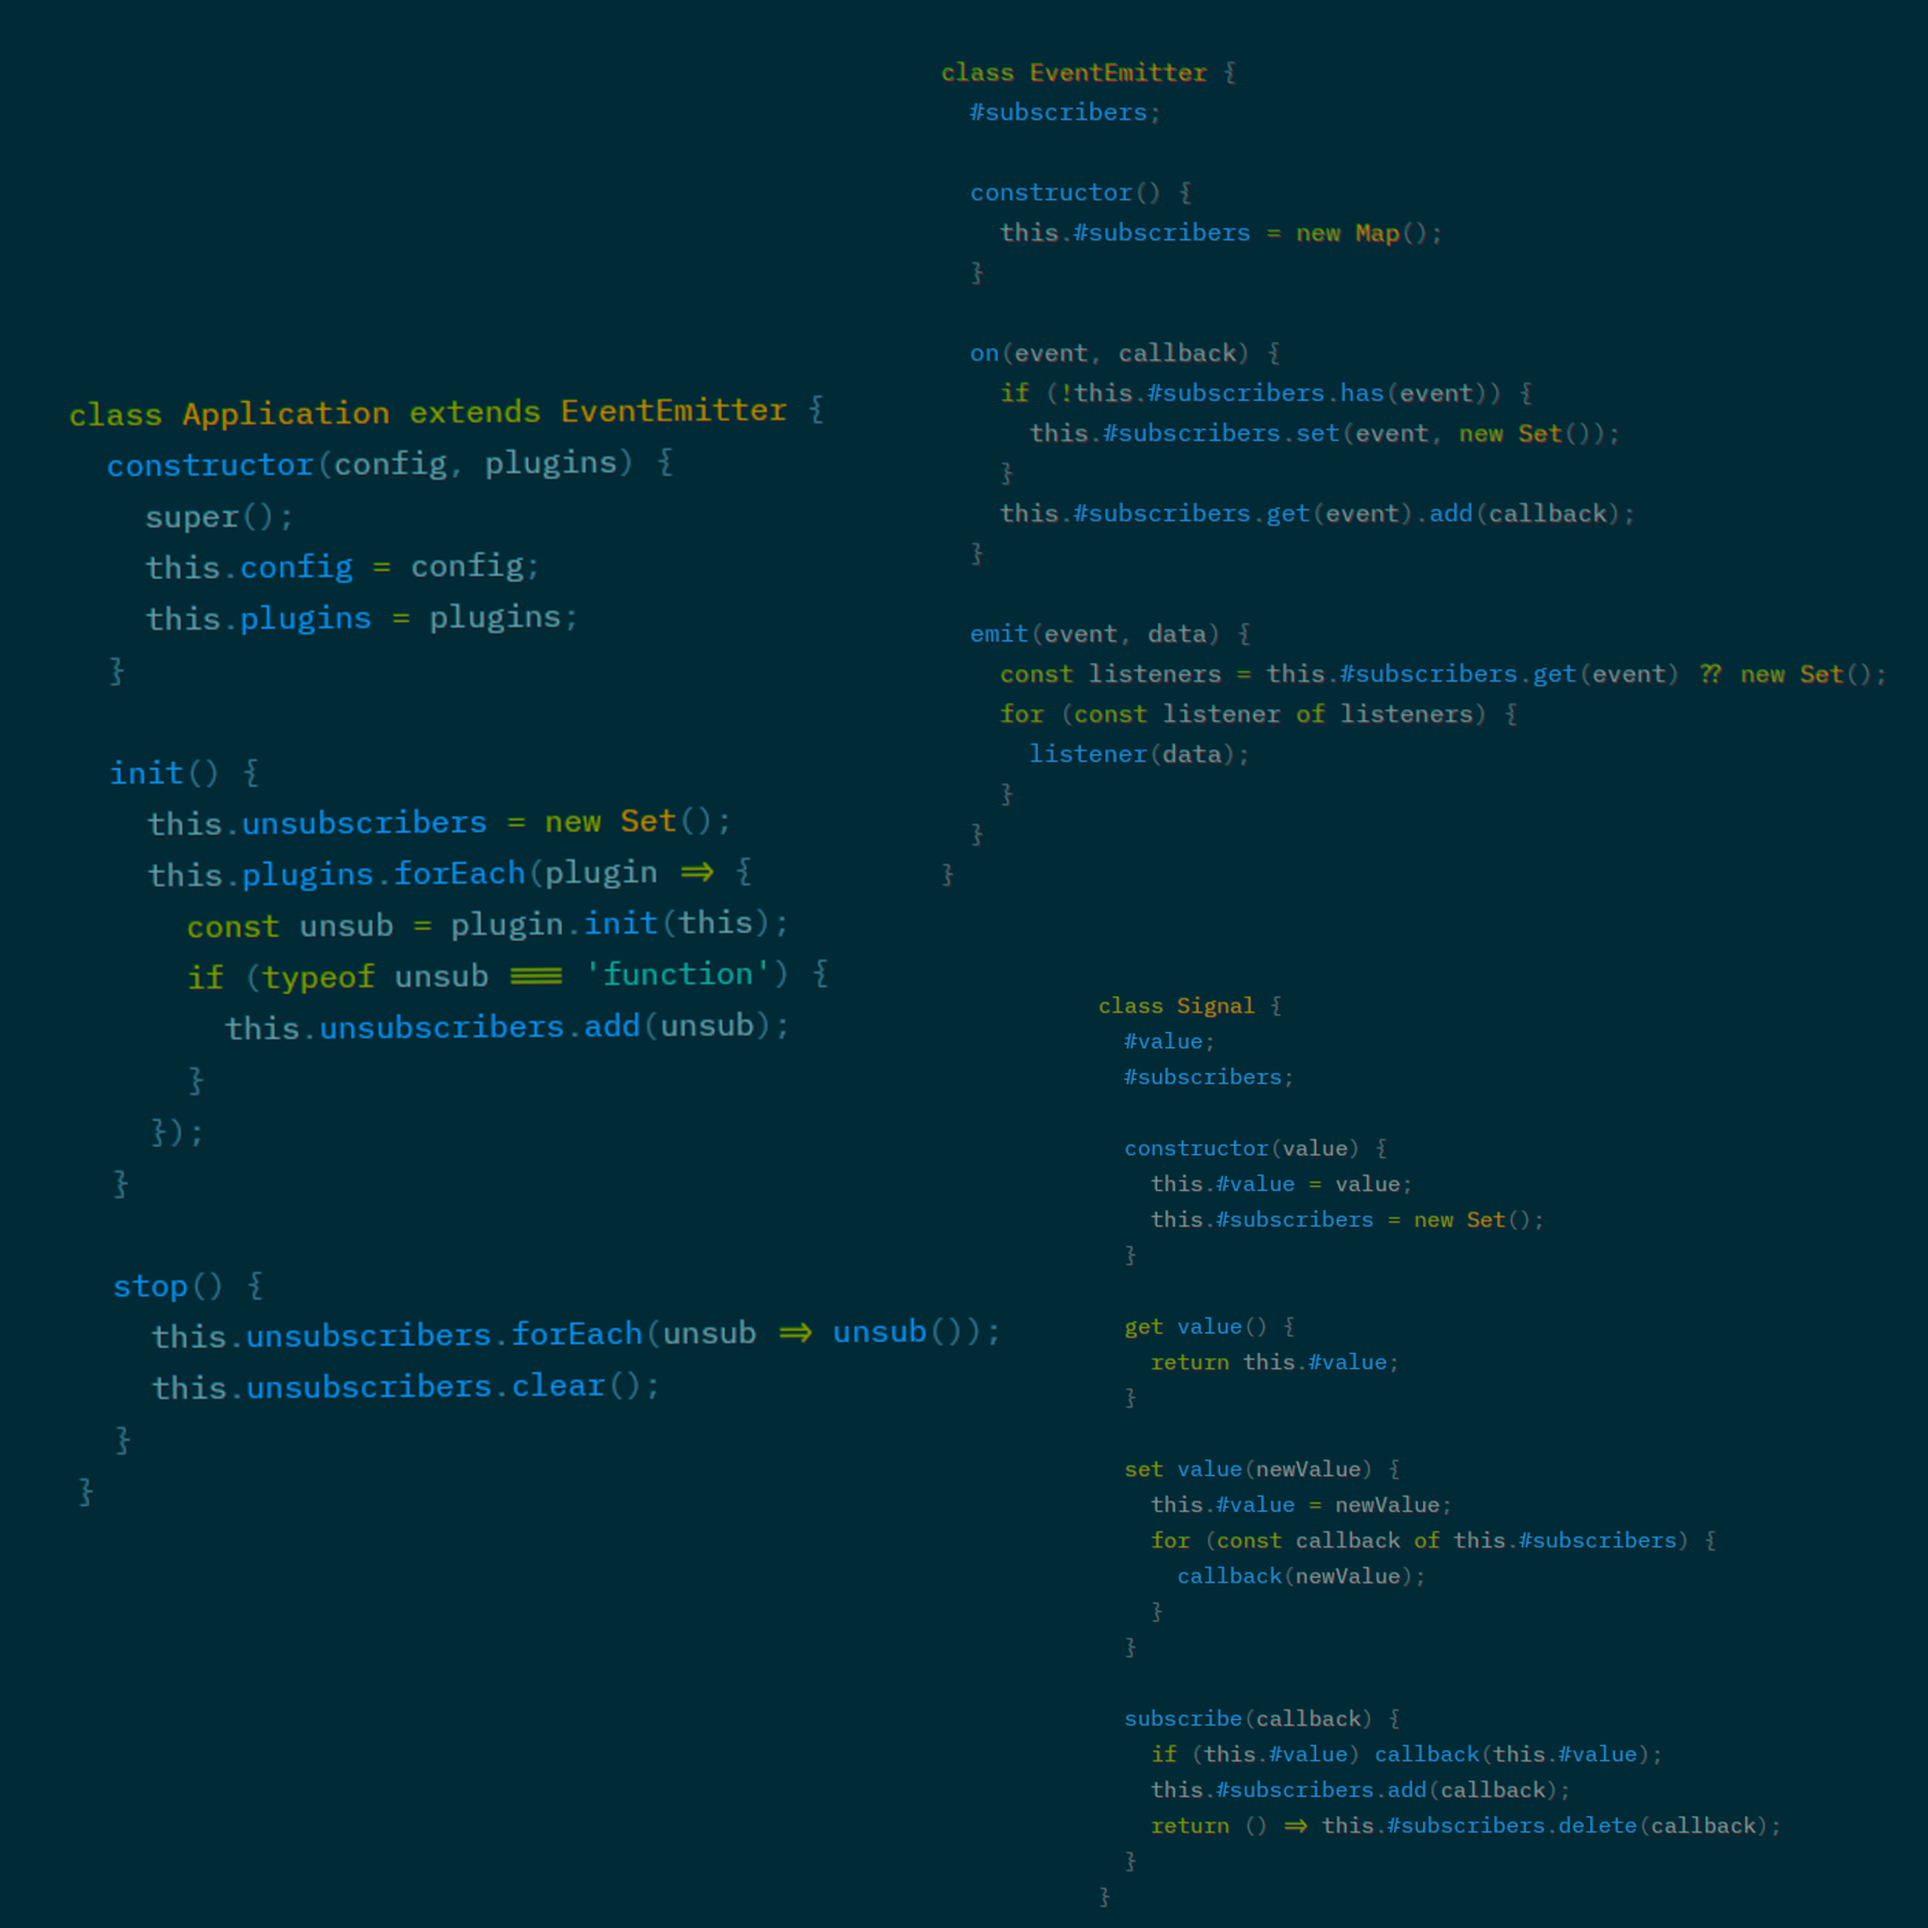
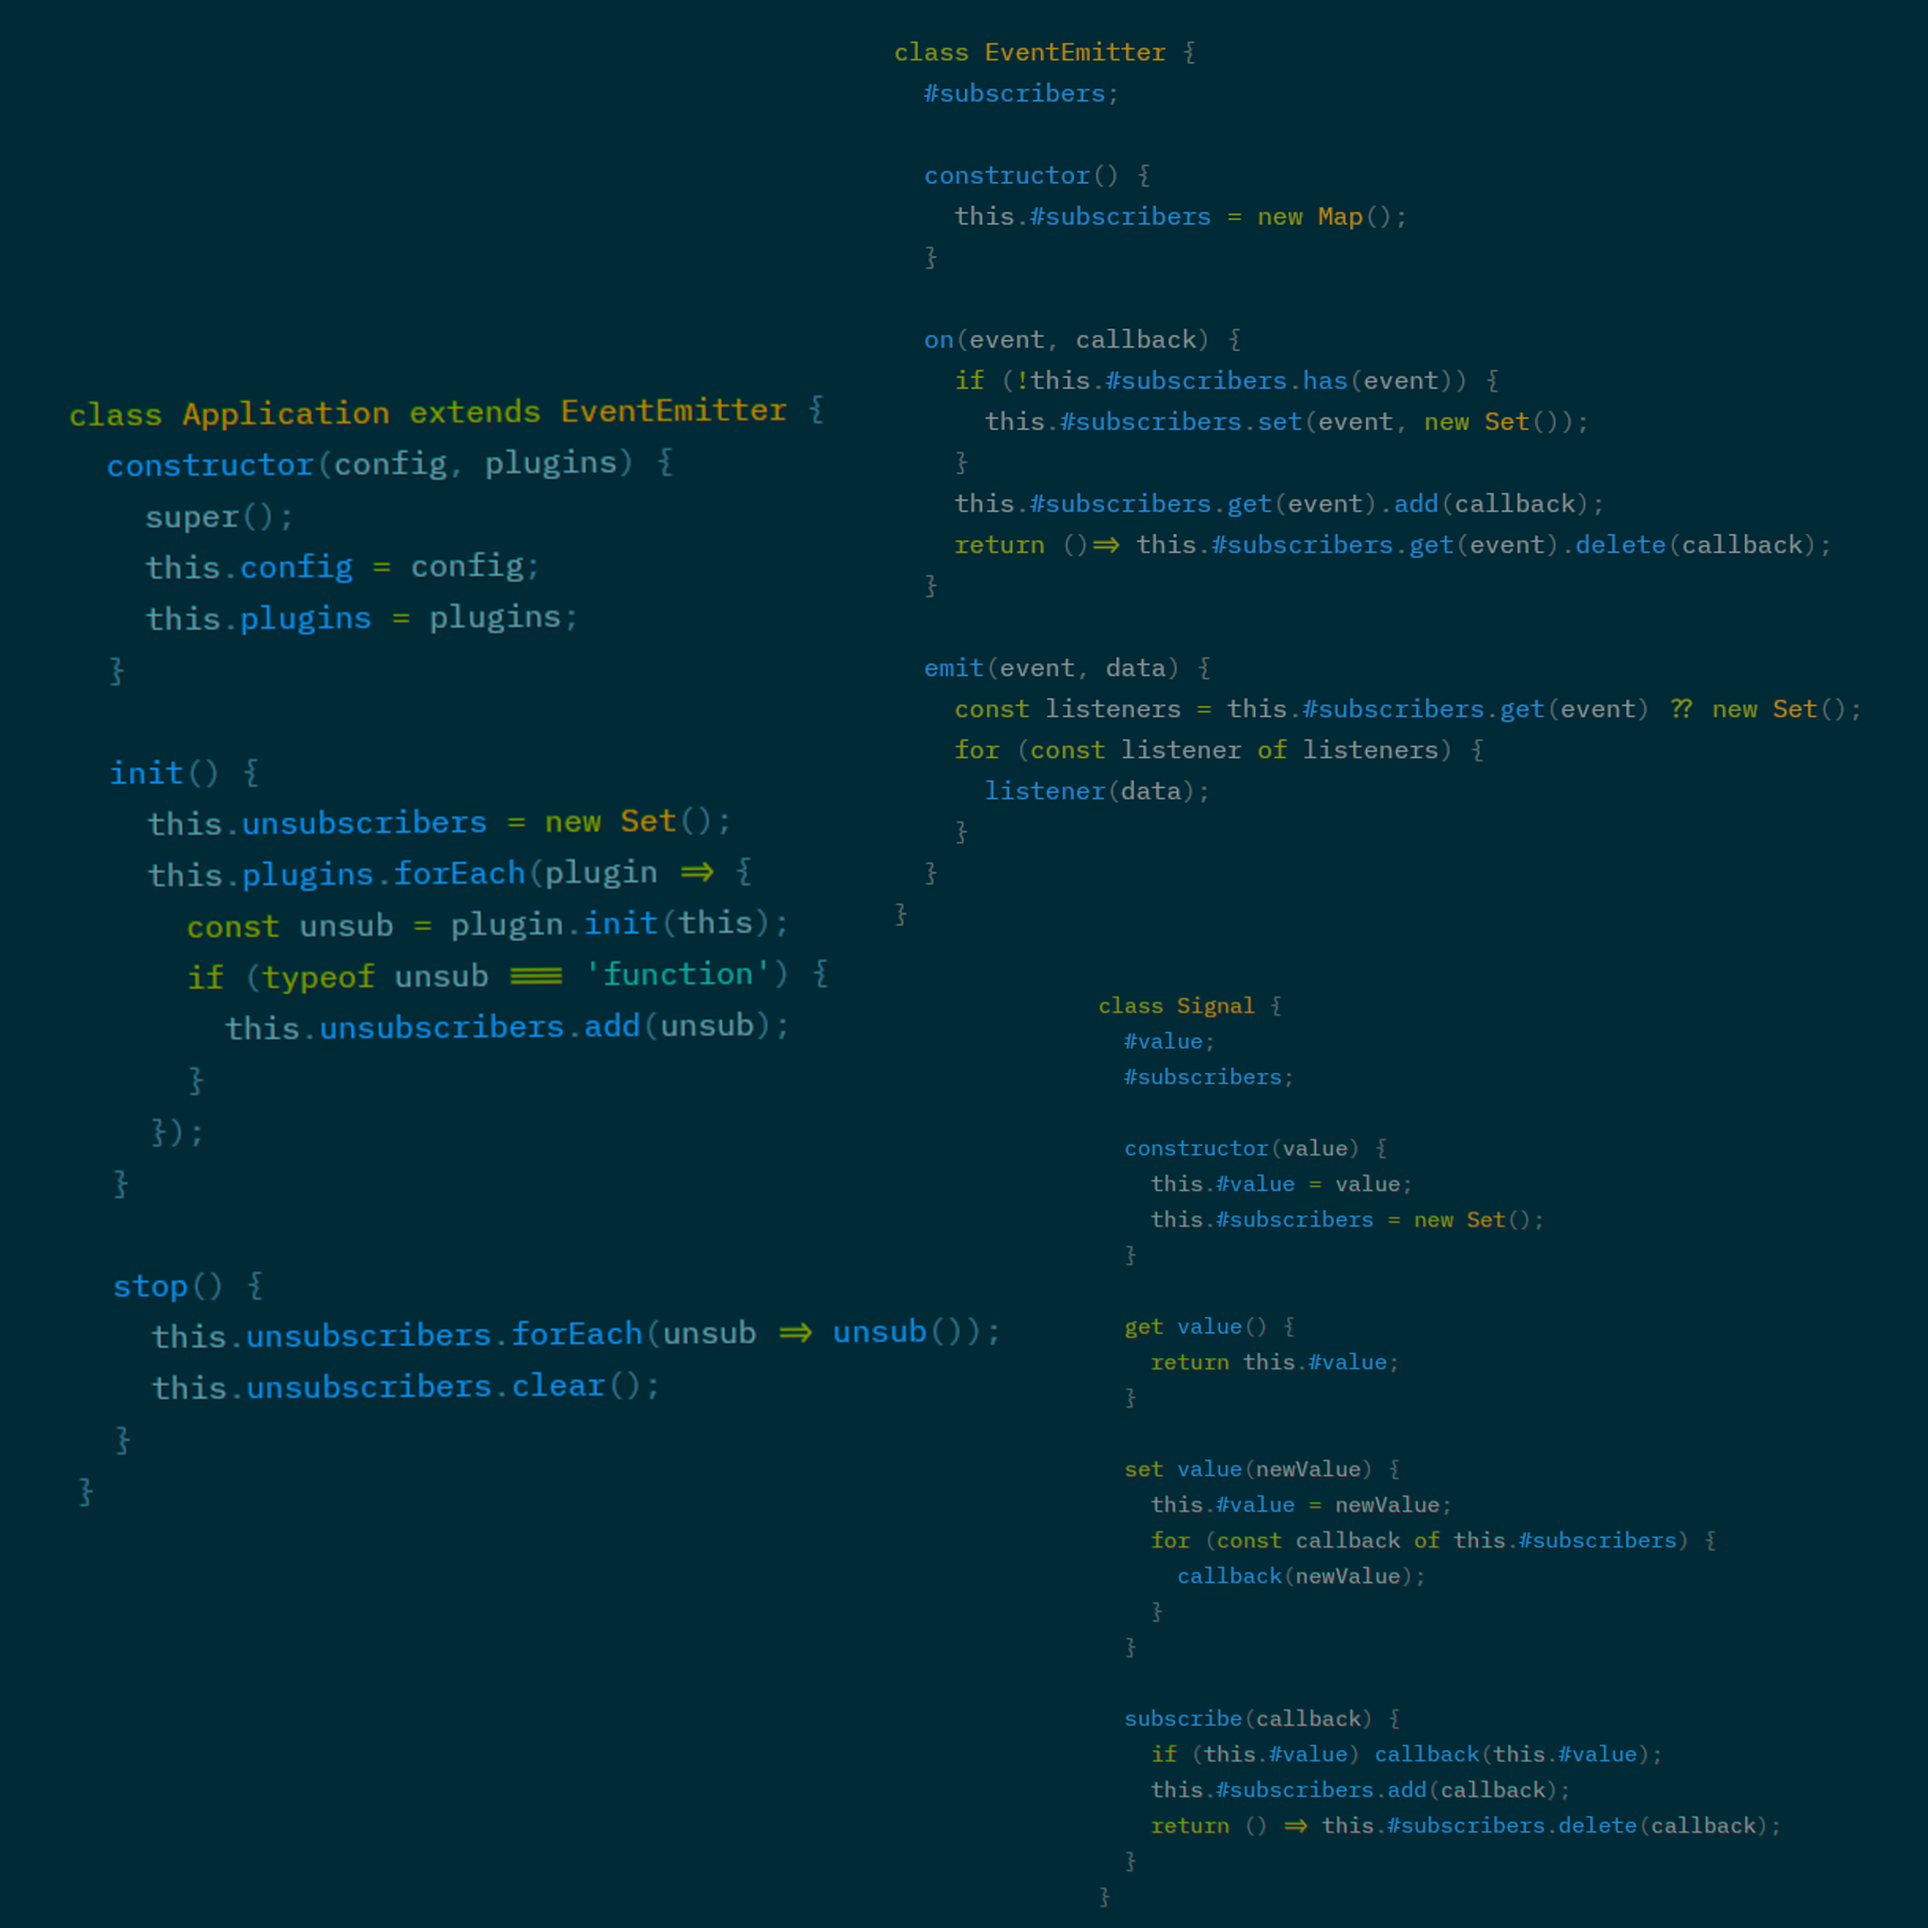
Blog Update

diff --git a/docs/permalink/c6fc42ca-9a33-4dca-9f4f-feff4f4a1340/index.html b/docs/permalink/c6fc42ca-9a33-4dca-9f4f-feff4f4a1340/index.html
@@ -130,11 +130,11 @@ we say x = 1, y = 1, and get 2 by executing x+y.</p>
 but in the old school way, where we rerun x+y if either variables change.</p>
 <p>In web pages where we deal with information that can come from a database,
 a live remote web socket, or user input, we can’t use old school, no, no!</p>
-<p>Instead of saying profileName = ‘<a href="mailto:&#x61;&#x6c;&#x69;&#99;&#x65;&#x40;&#101;&#120;&#x61;&#109;&#x70;&#108;&#x65;&#46;&#99;&#x6f;&#109;">&#x61;&#x6c;&#x69;&#99;&#x65;&#x40;&#101;&#120;&#x61;&#109;&#x70;&#108;&#x65;&#46;&#99;&#x6f;&#109;</a>’,
-we must say profileName = new Signal(‘<a href="mailto:&#x61;&#x6c;&#x69;&#99;&#x65;&#x40;&#x65;&#120;&#97;&#x6d;&#x70;&#108;&#101;&#46;&#99;&#x6f;&#x6d;">&#x61;&#x6c;&#x69;&#99;&#x65;&#x40;&#x65;&#120;&#97;&#x6d;&#x70;&#108;&#101;&#46;&#99;&#x6f;&#x6d;</a>’);</p>
+<p>Instead of saying profileName = ‘<a href="mailto:&#97;&#108;&#x69;&#x63;&#x65;&#64;&#x65;&#120;&#x61;&#109;&#112;&#x6c;&#101;&#46;&#99;&#111;&#x6d;">&#97;&#108;&#x69;&#x63;&#x65;&#64;&#x65;&#120;&#x61;&#109;&#112;&#x6c;&#101;&#46;&#99;&#111;&#x6d;</a>’,
+we must say profileName = new Signal(‘<a href="mailto:&#x61;&#108;&#x69;&#x63;&#101;&#64;&#101;&#120;&#x61;&#x6d;&#x70;&#x6c;&#101;&#x2e;&#99;&#x6f;&#109;">&#x61;&#108;&#x69;&#x63;&#101;&#64;&#101;&#120;&#x61;&#x6d;&#x70;&#x6c;&#101;&#x2e;&#99;&#x6f;&#109;</a>’);</p>
 <p>And if we want to update the profileName we talk to the signal,
 which has simple .get, .set and .subscribe functions.</p>
-<p>And we say  profileName.set(‘<a href="mailto:&#x62;&#111;&#x62;&#64;&#101;&#120;&#97;&#109;&#x70;&#x6c;&#x65;&#46;&#x63;&#111;&#109;">&#x62;&#111;&#x62;&#64;&#101;&#120;&#97;&#109;&#x70;&#x6c;&#x65;&#46;&#x63;&#111;&#109;</a>’),
+<p>And we say  profileName.set(‘<a href="mailto:&#98;&#111;&#x62;&#64;&#x65;&#120;&#97;&#109;&#112;&#x6c;&#x65;&#46;&#x63;&#111;&#109;">&#98;&#111;&#x62;&#64;&#x65;&#120;&#97;&#109;&#112;&#x6c;&#x65;&#46;&#x63;&#111;&#109;</a>’),
 because this is not an old school assignment, but interaction with a Signal object.</p>
 <p>Now stuff can happen behind the closed curtains,
 for one, while we can just get a value once, that is still old school.</p>

diff --git a/docs/permalink/dd883f9b-c850-46f3-9dba-4e3d817952ed/index.html b/docs/permalink/dd883f9b-c850-46f3-9dba-4e3d817952ed/index.html
@@ -135,7 +135,7 @@
 <p>some machines move objects that have named values.</p>
 <hr>
 <p>Fox example a commonly used object is User,</p>
-<p>the name of a commonly used value is email, and value of email is <a href="mailto:&#x75;&#115;&#101;&#x72;&#x40;&#x65;&#120;&#97;&#109;&#112;&#x6c;&#101;&#x2e;&#99;&#111;&#x6d;">&#x75;&#115;&#101;&#x72;&#x40;&#x65;&#120;&#97;&#109;&#112;&#x6c;&#101;&#x2e;&#99;&#111;&#x6d;</a></p>
+<p>the name of a commonly used value is email, and value of email is <a href="mailto:&#x75;&#115;&#101;&#114;&#x40;&#x65;&#120;&#x61;&#x6d;&#112;&#x6c;&#x65;&#x2e;&#x63;&#111;&#109;">&#x75;&#115;&#101;&#114;&#x40;&#x65;&#120;&#x61;&#x6d;&#112;&#x6c;&#x65;&#x2e;&#x63;&#111;&#109;</a></p>
 <p>Such an object can be passed through a machine that detects bad email addresses,</p>
 <p>example.com is a special fake domain name, so it is a bad email address.</p>
 <p>When detected, the entire user object will be bounced, or sent, of copied over,</p>

diff --git a/docs/permalink/04ec2efd-2646-4b70-9428-9d106a7a58e9/index.html b/docs/permalink/04ec2efd-2646-4b70-9428-9d106a7a58e9/index.html
@@ -238,6 +238,7 @@ class EventEmitter {
       this.#subscribers.set(event, new Set());
     }
     this.#subscribers.get(event).add(callback);
+    return ()=&gt; this.#subscribers.get(event).delete(callback);
   }
 
   emit(event, data) {
